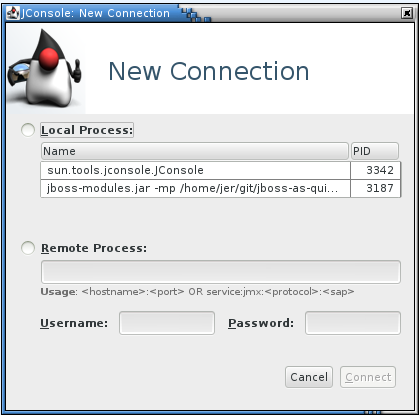
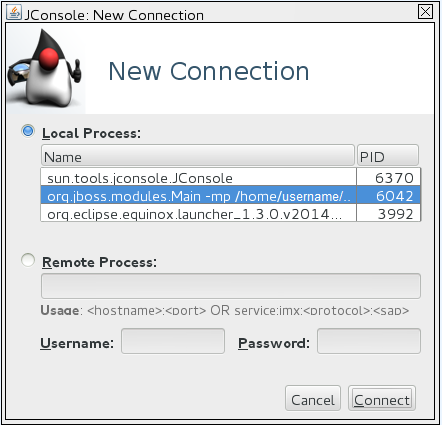
Bz1191485: Update the JBDS helloworld-mbean instructions to install the JBoss Tools Maven Package Configurator

Changed region(s): [[0.0, 0.0, 1.0, 1.0], [0.2482, 0.1446, 0.7446, 0.2024]]

diff --git a/helloworld-mbean/helloworld-mbean-webapp/src/main/webapp/index.html b/helloworld-mbean/helloworld-mbean-webapp/src/main/webapp/index.html
@@ -17,7 +17,12 @@
 <html>
 <body>
 	<h1>Access to MBeans</h1>
-	<p>You can use jconsole to inspect and use the MBeans :</p> 
+	<p>You can use JConsole to inspect and use the MBeans.</p>
+	<p>To connect to the JBoss EAP server using JConsole, open a command prompt and type the following command :
+	</p>
+	<div style="margin-left: 1em;">For Linux:   <i>JDK_HOME</i>/bin/jconsole</div>
+  <div style="margin-left: 1em;">For Windows: <i>JDK_HOME</i>\bin\jconsole.exe</div> 
+  <p>Select the local <i>org.jboss.modules.Main</i> process and click <i>Connect</i>. You are presented with the following screen.</p>
 	<img alt="MBeans in JConsole" src="jconsole.png">
 
 	<p>To test the MBeans :</p>

diff --git a/helloworld-mbean/README.md b/helloworld-mbean/README.md
@@ -66,8 +66,9 @@ _NOTE: The following build command assumes you have configured your Maven user s
 4. This will deploy `helloworld-mbean-webapp\target\jboss-helloworld-mbean-webapp.war` and `helloworld-mbean-service\target\jboss-helloworld-mbean-service.sar` to the running instance of the server.
 
 
-Access and Test the MBeans  
+Access and Test the MBeans
 --------------------------
+
 This quickstart differs from the other quickstarts in that it uses 'JConsole' to access and test the quickstart rather than access an URL in the browser. If you do access <http://localhost:8080/jboss-helloworld-mbean-helloworld-mbean-webapp/>, you will see a screen shot image of the JConsole application,
 
 The following sections describe how to use 'JConsole' to inspect and test the MBeans. 
@@ -75,15 +76,17 @@ The following sections describe how to use 'JConsole' to inspect and test the MB
 Start JConsole
 --------------
 
-To connect to the JBoss EAP server using jconsole, open a command prompt and type the following command :
+To connect to the JBoss EAP server using JConsole, open a command prompt and type the following command :
 
         For Linux:   JDK_HOME/bin/jconsole
         For Windows: JDK_HOME\bin\jconsole.exe
 
-Select JBoss process and connect to it.
+Select the local `org.jboss.modules.Main` process and click `Connect`.
 
 ![MBeans in JConsole Connection](helloworld-mbean-webapp/src/main/webapp/jconsole_connection.png)
- 
+
+A dialog displays with the warning "Secure connection failed. Retry insecurely?". Click `Insecure` to continue.
+
 Test the MBeans in JConsole
 ---------------------------
 
@@ -113,11 +116,21 @@ Run the Quickstart in Red Hat JBoss Developer Studio or Eclipse
 -------------------------------------
 You can also start the server and deploy the quickstarts or run the Arquillian tests from Eclipse using JBoss tools. For more information, see [Use JBoss Developer Studio or Eclipse to Run the Quickstarts](https://github.com/jboss-developer/jboss-developer-shared-resources/blob/master/guides/USE_JBDS.md#use-jboss-developer-studio-or-eclipse-to-run-the-quickstarts) 
 
-_Note:_ When you import the `helloworld-mbean` quickstart into JBoss Developer Studio, you see the following warnings for the `jboss-helloworld-mbean-webapp/src/main/webapp/META-INF/jboss-service.xml` and `/jboss-helloworld-mbean-service/src/main/resources/META-INF/jboss-service.xml` files:
+This quickstart consists of multiple projects and requires installation of the "JBoss Tools Maven Packaging Configurator", so it deploys and runs differently in JBoss Developer Studio than the other quickstarts.
 
-    No grammar constraints (DTD or XML Schema) referenced in the document. 
+1.  When you import the `helloworld-mbean` quickstart into JBoss Developer Studio, you see the following warnings for the `jboss-helloworld-mbean-webapp/src/main/webapp/META-INF/jboss-service.xml` and `/jboss-helloworld-mbean-service/src/main/resources/META-INF/jboss-service.xml` files:
+
+        No grammar constraints (DTD or XML Schema) referenced in the document. 
     
-There is a known issue with the schema for the `jboss-service.xml` file that prevents successful validation. To prevent import errors, these files do not specify the schema location (http://www.jboss.org/schema/jbossas/jboss-service_7_0.xsd).
+   There is a known issue with the schema for the `jboss-service.xml` file that prevents successful validation. To prevent import errors, these files do not specify the schema location (http://www.jboss.org/schema/jbossas/jboss-service_7_0.xsd).
+2. Install the JBoss Tools Maven Packaging Configurator
+   * If the "JBoss Central" page is not showing, open it by choosing `Help` --> `JBoss Central`.
+   * Click the `Software/Install` tab at the bottom of the `JBoss Central`.
+   * Select the "JBoss Tools Maven Packaging Configurator" and click `Update/Install`.
+3. Right click on the parent `jboss-helloworld-mbean` parent project and choose `Maven` --> `Update Project...`. Select all projects and click `OK`.
+4. Right-click on the `helloworld-mbean-helloworld-mbean-service` project and choose `Run As` --> `Run on Server`. 
+5. Right-click on the `helloworld-mbean-helloworld-mbean-webapp` project and choose `Run As` --> `Run on Server`. 
+6. [Start JConsole](#start-jconsole) and [Test the MBeans in JConsole](#test-the-mbeans-in-jconsole) as described above.
 
 Debug the Application
 ------------------------------------
